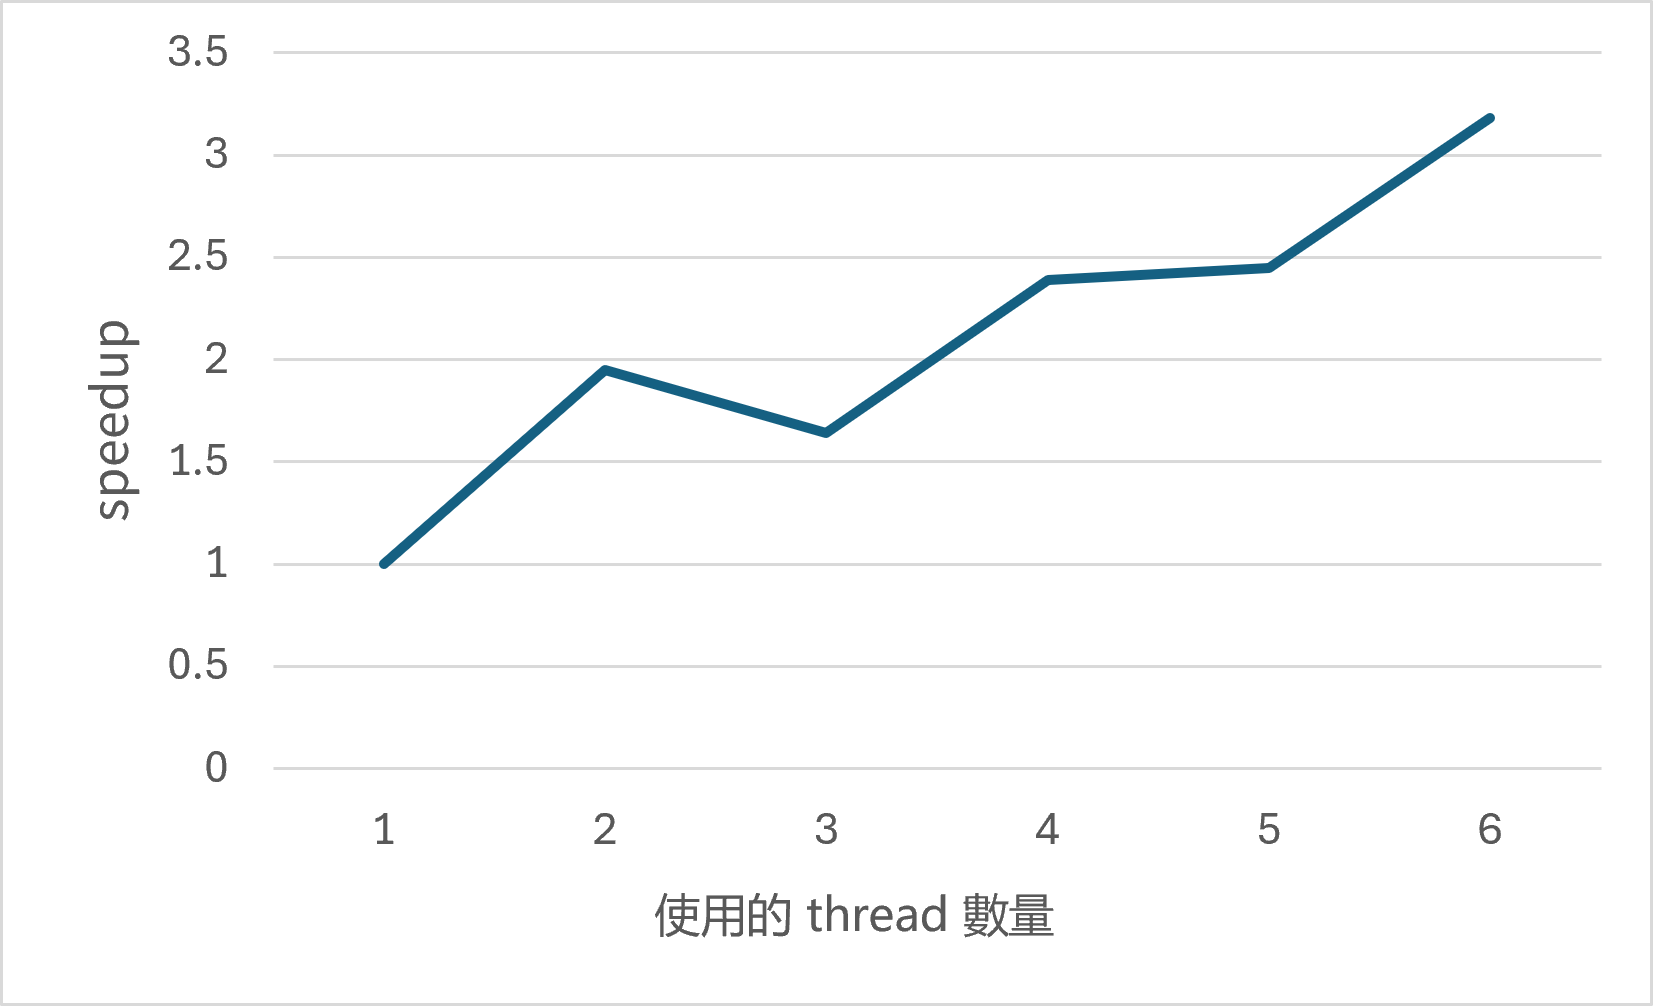
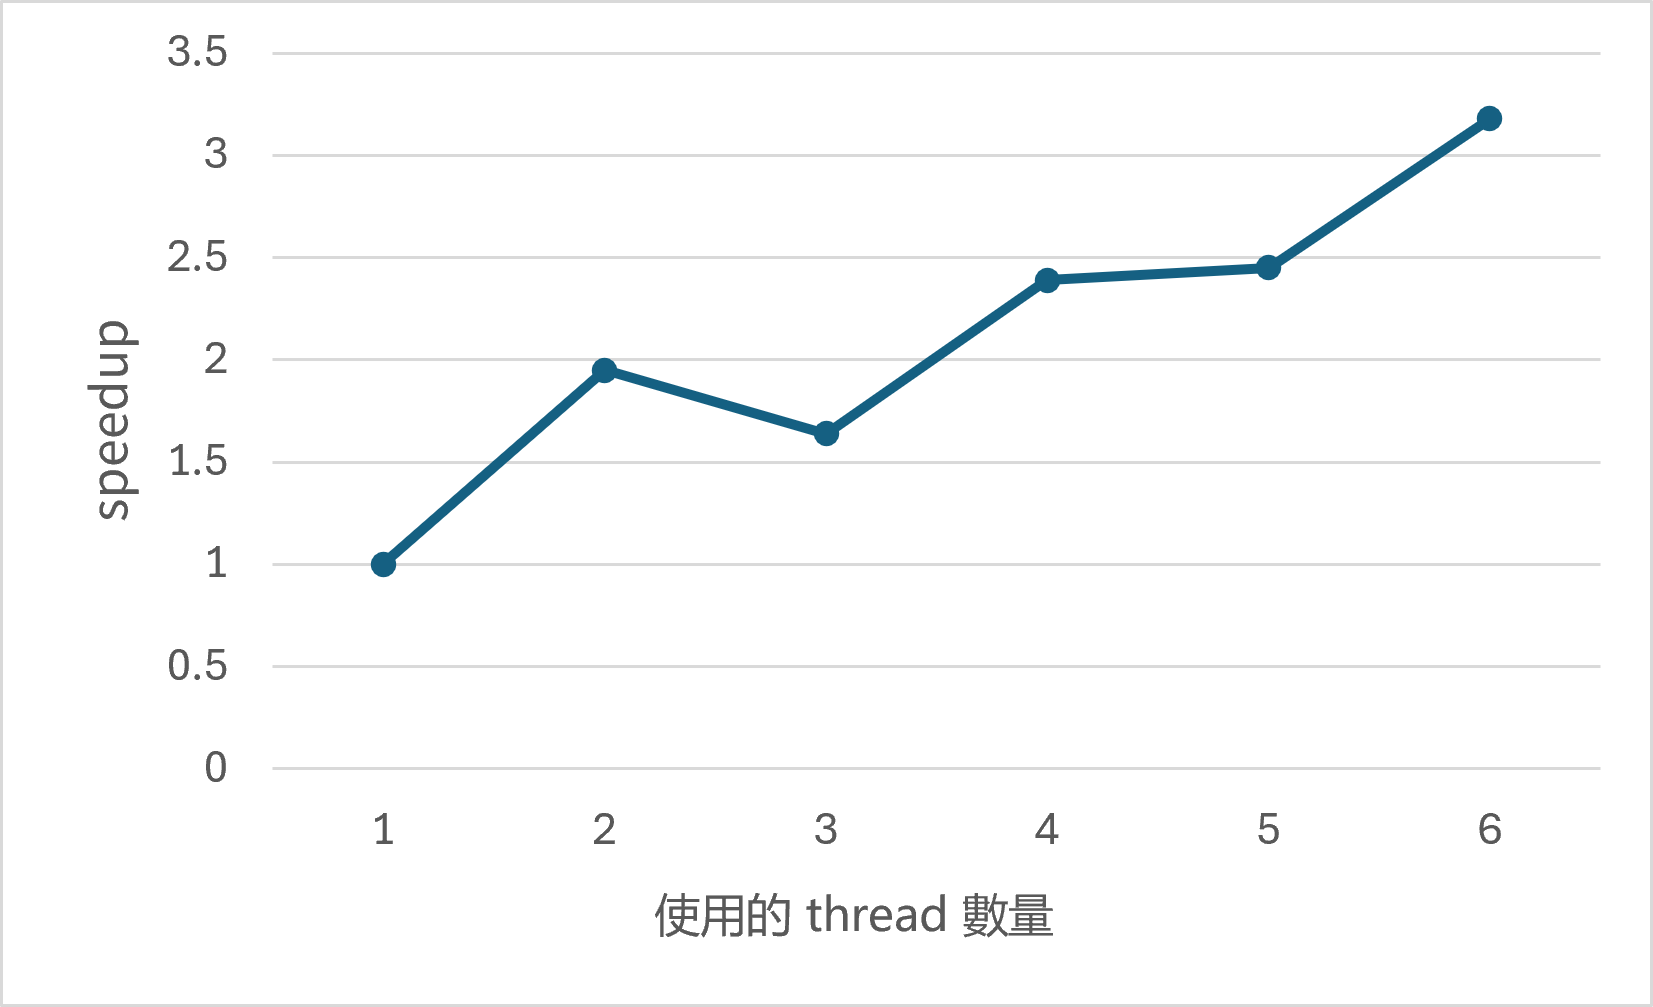
part2_speedup

diff --git a/HW2/HW2_314552017/part2/mandelbrot_thread.cpp b/HW2/HW2_314552017/part2/mandelbrot_thread.cpp
@@ -1,0 +1,139 @@
+#include <array>
+#include <cstdio>
+#include <cstdlib>
+#include <thread>
+#include "cycle_timer.h"
+
+struct WorkerArgs
+{
+    float x0, x1;
+    float y0, y1;
+    unsigned int width;
+    unsigned int height;
+    int maxIterations;
+    int *output;
+    int threadId;
+    int numThreads;
+};
+
+extern void mandelbrot_serial(float x0,
+                              float y0,
+                              float x1,
+                              float y1,
+                              int width,
+                              int height,
+                              int start_row,
+                              int num_rows,
+                              int max_iterations,
+                              int *output);
+
+extern void
+write_ppm_image(int *data, int width, int height, const char *filename, int max_iterations);
+//
+// worker_thread_start --
+//
+// Thread entrypoint.
+void worker_thread_start(WorkerArgs *const args)
+{
+
+    // TODO FOR PP STUDENTS: Implement the body of the worker
+    // thread here. Each thread could make a call to mandelbrot_serial()
+    // to compute a part of the output image. For example, in a
+    // program that uses two threads, thread 0 could compute the top
+    // half of the image and thread 1 could compute the bottom half.
+    // Of course, you can copy mandelbrot_serial() to this file and
+    // modify it to pursue a better performance.
+
+    // printf("Hello world from thread %d\n", args->threadId);
+    // int start_row, total_rows;
+    // start_row = (args->height / args->numThreads) * args->threadId;
+    // if (args->threadId == args->numThreads - 1){
+    //     total_rows = args->height - start_row;
+    // }else{
+    //     total_rows = args->height / args->numThreads;
+    // }
+    // printf("thread %d: start_row = %d, total_rows = %d\n", args->threadId, start_row, total_rows);
+    // int *tmp_output = new int[args->width * args->height];
+    double start_time = CycleTimer::current_seconds();
+    for(int i = 0 ; i < args->height; i+=args->numThreads){
+        if(i % args->numThreads == args->threadId){
+            mandelbrot_serial(args->x0, args->y0, args->x1, args->y1, args->width, args->height, i, 1, args->maxIterations, args->output);
+        }
+    }
+    // mandelbrot_serial(args->x0, args->y0, args->x1, args->y1, args->width, args->height, start_row, total_rows, args->maxIterations, args->output);
+    double end_time = CycleTimer::current_seconds();
+    printf("thread %d finished in %.3f ms\n", args->threadId, (end_time - start_time) * 1000);
+
+    // char filename[64];
+    // snprintf(filename, sizeof(filename), "mandelbrot-thread-%d.ppm", args->threadId);
+    // write_ppm_image(tmp_output, args->width, args->height, filename, args->maxIterations);
+
+    // for(int j= start_row; j < start_row + total_rows; j++){
+    //     for(int i=0; i < args->width; i++){
+    //         args->output[j * args->width + i] = tmp_output[j * args->width + i];
+    //     }
+    // }
+    // delete[] tmp_output;
+}
+
+//
+// mandelbrot_thread --
+//
+// Multi-threaded implementation of mandelbrot set image generation.
+// Threads of execution are created by spawning std::threads.
+void mandelbrot_thread(int num_threads,
+                       float x0,
+                       float y0,
+                       float x1,
+                       float y1,
+                       int width,
+                       int height,
+                       int max_iterations,
+                       int *output)
+{
+    static constexpr int max_threads = 32;
+
+    if (num_threads > max_threads)
+    {
+        fprintf(stderr, "Error: Max allowed threads is %d\n", max_threads);
+        exit(1);
+    }
+
+    // Creates thread objects that do not yet represent a thread.
+    std::array<std::thread, max_threads> workers;
+    std::array<WorkerArgs, max_threads> args = {};
+
+    for (int i = 0; i < num_threads; i++)
+    {
+        // TODO FOR PP STUDENTS: You may or may not wish to modify
+        // the per-thread arguments here.  The code below copies the
+        // same arguments for each thread
+        args[i].x0 = x0;
+        args[i].y0 = y0;
+        args[i].x1 = x1;
+        args[i].y1 = y1;
+        args[i].width = width;
+        args[i].height = height;
+        args[i].maxIterations = max_iterations;
+        args[i].numThreads = num_threads;
+        args[i].output = output;
+
+        args[i].threadId = i;
+    }
+
+    // Spawn the worker threads.  Note that only numThreads-1 std::threads
+    // are created and the main application thread is used as a worker
+    // as well.
+    for (int i = 1; i < num_threads; i++)
+    {
+        workers[i] = std::thread(worker_thread_start, &args[i]);
+    }
+
+    worker_thread_start(&args[0]);
+
+    // join worker threads
+    for (int i = 1; i < num_threads; i++)
+    {
+        workers[i].join();
+    }
+}

diff --git a/HW2/HW2_314552017/part1/pi.cpp b/HW2/HW2_314552017/part1/pi.cpp
@@ -1,0 +1,94 @@
+#include <iostream>
+#include <stdlib.h>
+#include <pthread.h>
+#include <random>
+#include <vector>
+#include <time.h>
+#include <immintrin.h>
+#include <cstdint>
+#define LL long long
+
+std::vector<LL> thread_counts;
+std::vector<LL> thread_N;
+
+void* number_in_circle_thread(void* arg){
+    long  thread_id = (long)arg;
+    const LL n = thread_N[thread_id];
+    // local one
+    LL local_count = 0;
+    uint32_t __attribute__((aligned(32))) random_n[8];
+    std::random_device rd;
+    std::mt19937 gen(rd());
+    for(int i = 0 ; i < 8; i++){
+        random_n[i] = gen();
+    }
+    __m256i_u state = _mm256_loadu_si256((__m256i_u*)random_n);
+    for(LL i = 0; i < n; i+=8){
+        // generate random numbers
+        state = _mm256_xor_si256(state, _mm256_slli_epi32(state, 13));
+        state = _mm256_xor_si256(state, _mm256_srli_epi32(state, 17));
+        state = _mm256_xor_si256(state, _mm256_slli_epi32(state, 5));
+
+        // load
+        __m256 x_vec =  _mm256_cvtepi32_ps(_mm256_and_si256(state, _mm256_set1_epi32(0x7FFFFFFF)));  // _mm256_load_ps(x);
+        
+        state = _mm256_xor_si256(state, _mm256_slli_epi32(state, 13));
+        state = _mm256_xor_si256(state, _mm256_srli_epi32(state, 17));
+        state = _mm256_xor_si256(state, _mm256_slli_epi32(state, 5));
+
+        __m256 y_vec =   _mm256_cvtepi32_ps(_mm256_and_si256(state, _mm256_set1_epi32(0x7FFFFFFF)));  // _mm256_load_ps(y);
+        // mapping
+        // Inputs are 31-bit values in [0, 2^31); scale to [-1, 1).
+        __m256 scale = _mm256_set1_ps(1.0f / 1073741824.0f);
+        __m256 x_mapped = _mm256_mul_ps(x_vec, scale);
+        __m256 y_mapped = _mm256_mul_ps(y_vec, scale);
+        x_vec = _mm256_sub_ps(x_mapped, _mm256_set1_ps(1.0f));
+        y_vec = _mm256_sub_ps(y_mapped, _mm256_set1_ps(1.0f));
+
+        // calculate
+        __m256 x2 = _mm256_mul_ps(x_vec, x_vec);
+        __m256 y2 = _mm256_mul_ps(y_vec, y_vec);
+        __m256 sum = _mm256_add_ps(x2, y2);
+        __m256 cmp = _mm256_cmp_ps(_mm256_set1_ps(1.0f), sum, _CMP_GE_OQ);
+        int mask = _mm256_movemask_ps(cmp);
+        local_count += __builtin_popcount(mask);
+
+    }
+    thread_counts[thread_id] = local_count;
+    return NULL;
+}
+
+int main(int argc, char *argv[]){
+    static const int threads = argv[1] ? atoi(argv[1]) : 1;
+    static const LL N = argv[2] ? atoll(argv[2]) : 10000000;
+    LL number_in_circle = 0;
+    srand(time(NULL));
+    // need optimize
+    // for(LL i = 0; i < N; i++){
+    //     double x = (double)rand() / RAND_MAX;
+    //     double y = (double)rand() / RAND_MAX;
+    //     if(x*x + y*y <= 1){
+    //         number_in_circle++;
+    //     }
+    // }
+    // optimize 
+    std::vector<pthread_t> thread_pool(threads);
+    thread_counts = std::vector<LL>(threads, 0);
+    thread_N = std::vector<LL>(threads, N/threads);
+    for(int i = 0 ; i < N%threads; i++){
+        thread_N[i]++;
+    }
+    long thread_num;
+    for(thread_num = 0; thread_num < threads; thread_num++){
+        pthread_create(&thread_pool[thread_num], NULL, number_in_circle_thread, (void*)thread_num);
+    }
+    for(int i = 0 ; i < threads; i++){
+        pthread_join(thread_pool[i], NULL);
+    }
+    for(int i = 0 ; i < threads; i++){
+        number_in_circle += thread_counts[i];
+    }
+    double pi_estimate = (4.0 * number_in_circle) / N;
+    printf("%lf\n",pi_estimate);
+    return 0;
+}

diff --git a/HW2/part2/mandelbrot_thread.cpp b/HW2/part2/mandelbrot_thread.cpp
@@ -55,7 +55,7 @@ void worker_thread_start(WorkerArgs *const args)
     // printf("thread %d: start_row = %d, total_rows = %d\n", args->threadId, start_row, total_rows);
     // int *tmp_output = new int[args->width * args->height];
     double start_time = CycleTimer::current_seconds();
-    for(int i = 0 ; i < args->height; i++){
+    for(int i = args->threadId ; i < args->height; i+=args->numThreads){
         if(i % args->numThreads == args->threadId){
             mandelbrot_serial(args->x0, args->y0, args->x1, args->y1, args->width, args->height, i, 1, args->maxIterations, args->output);
         }

diff --git a/HW2/report.md b/HW2/report.md
@@ -19,7 +19,7 @@ void worker_thread_start(WorkerArgs *const args){
 }
 ```
 
-實作時，我將影像由上而下切分成數個連續的列區段，讓每個 thread 負責其中一段。各 thread 分配到的列數盡可能相同，剩餘的列則由最後一個 thread 計算。
+實作時，我將影像由上而下切分成數個連續的 row 區段，讓每個 thread 負責其中一段。各 thread 分配到的列數盡可能相同，剩餘的列則由最後一個 thread 計算。
 
 不同 thread 數量下的 speedup 如下圖：
 
@@ -56,10 +56,25 @@ thread 2:
 
 ### In your write-up, describe your parallelization approach and report the final speedup achieved with 4 threads.
 
+修改後的 code 如下：
 
+```c++
+for(int i = 0 ; i < args->height; i++){
+    if(i % args->numThreads == args->threadId){
+        mandelbrot_serial(args->x0, args->y0, args->x1, args->y1, args->width, args->height, i, 1, args->maxIterations, args->output);
+    }
+}
+```
+目標是透過 round robine 的方式讓每一個 thread 的`工作量`盡量相等。 如此一來，就可以把 Q2 中提到的 中間區段較高的計算輛平分給每一個 thrad 而不是由單一 thread 處理，進而有效增加 speedup ，並讓 speedup 和 thread 使用數量接近線性關係。如下圖所示：
+
+![speedup2](./pic/PP2-speedup_2.png)
 
 ## Q4
 
 ### Is the performance noticeably better than with 6 threads? Why or why not?
 
+根據下圖，可以看到使用的 thread 數量大於 6 時， performance `沒有` 比使用 6 個 thread 還好。
 
+![speedup3](./pic/PP2-speedup_3.png)
+
+因為實體只有 6 個 core，如果 application 要使用更多的 thread ，那 thread 之間就會彼此競爭 core 的使用權限，進而增加 context switch 的次數，而讓 performance 無法更進一步的提昇。
